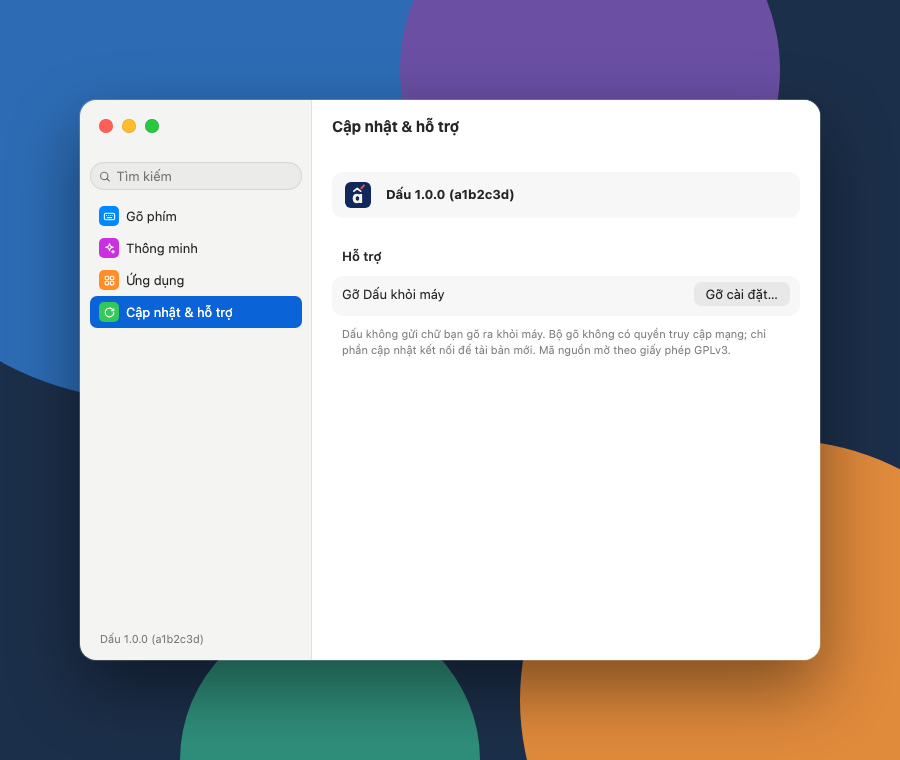
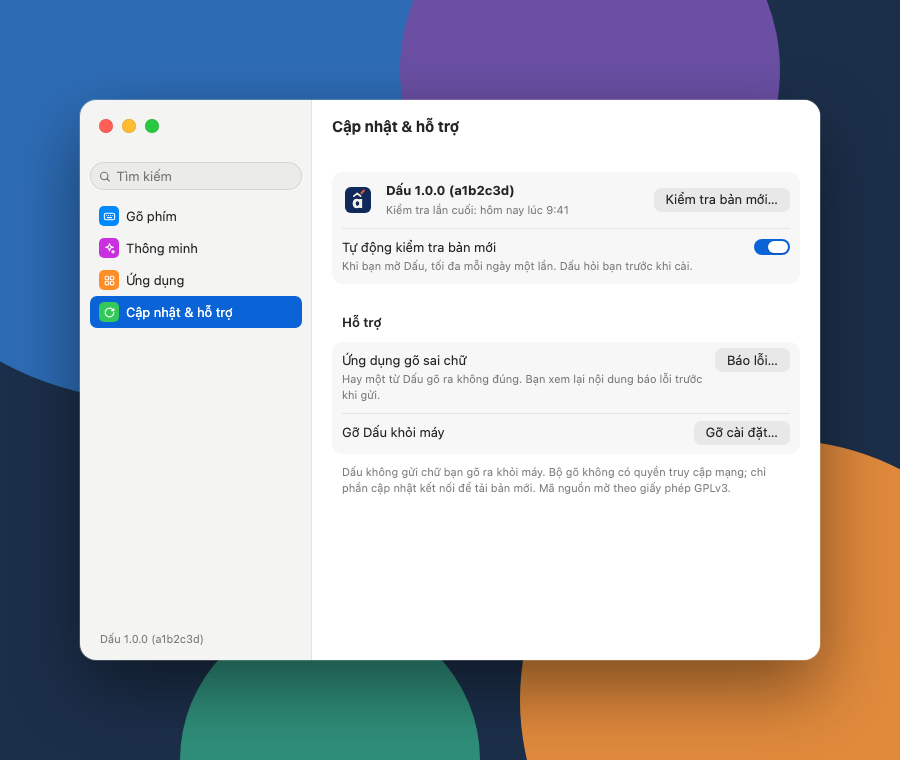
docs(decisions): use Sparkle's own update windows; GitHub-only bug reports
Approved M7 artboards: a new DMG window, the update part and a bug-report
row on the Updates & Support page, and the report sheet without the email
path. D7: Sparkle draws the update windows, checks only while Dấu is open,
never installs silently. D8: bug reports go through GitHub only. The two
custom update artboards are removed.

diff --git a/docs/canvas/src/DmgWindow.dc.html b/docs/canvas/src/DmgWindow.dc.html
@@ -1,0 +1,49 @@
+<!doctype html>
+<html lang="vi">
+<head>
+<meta charset="utf-8">
+<title>Cửa sổ DMG</title>
+<script src="./support.js"></script>
+</head>
+<body>
+<x-dc>
+<helmet>
+<style>
+@import url('https://fonts.googleapis.com/css2?family=Be+Vietnam+Pro:wght@400;500;600;700;800&display=swap');
+body{margin:0}
+.tl{position:absolute;top:9px;width:12px;height:12px;border-radius:6px;box-shadow:inset 0 0 0 .5px rgba(0,0,0,.15)}
+.item{position:absolute;top:116px;width:160px;display:flex;flex-direction:column;align-items:center;gap:6px}
+.lbl{font-size:13px;line-height:16px;color:#000;padding:1px 4px;border-radius:4px}
+</style>
+</helmet>
+<div style="width: 900px; height: 620px; position: relative; overflow: hidden; font-family: -apple-system, BlinkMacSystemFont, 'SF Pro Text', 'Helvetica Neue', sans-serif">
+<div aria-hidden="true" style="position: absolute; inset: 0; background: #1c2f4a; overflow: hidden">
+<div style="position: absolute; width: 620px; height: 620px; border-radius: 50%; background: #2d6cb5; left: -160px; top: -220px"></div>
+<div style="position: absolute; width: 520px; height: 520px; border-radius: 50%; background: #e08a3c; right: -140px; bottom: -200px"></div>
+<div style="position: absolute; width: 380px; height: 380px; border-radius: 50%; background: #6a4fa3; right: 120px; top: -120px"></div>
+<div style="position: absolute; width: 300px; height: 300px; border-radius: 50%; background: #2f8f7a; left: 180px; bottom: -150px"></div>
+</div>
+<div role="img" aria-label="Cửa sổ Finder của ảnh đĩa Dấu: biểu tượng Dấu bên trái, mũi tên, thư mục Applications bên phải" style="position: absolute; left: 130px; top: 96px; width: 640px; height: 428px; border-radius: 12px; overflow: hidden; background: #F6F1E7; box-shadow: 0 0 0 1px rgba(0,0,0,.18), 0 28px 70px rgba(0,0,0,.45)">
+<div style="position: relative; height: 28px; background: #ececec; box-shadow: inset 0 -1px 0 rgba(0,0,0,.1); display: flex; align-items: center; justify-content: center; font-size: 13px; font-weight: 600; color: rgba(0,0,0,.85)">
+<span class="tl" style="left: 10px; background: #ff5f57"></span><span class="tl" style="left: 30px; background: #febc2e"></span><span class="tl" style="left: 50px; background: #28c840"></span>Dấu</div>
+<div style="position: relative; height: 400px">
+<div class="item" style="left: 80px">
+<svg width="128" height="128" viewBox="0 0 100 100" aria-hidden="true"><rect x="0" y="0" width="100" height="100" rx="22.4" fill="#10285A"></rect><text x="48" y="80" text-anchor="middle" font-family="'Be Vietnam Pro', -apple-system, 'Helvetica Neue', sans-serif" font-weight="700" font-size="64" fill="#F6F1E7">a</text><path d="M34 35 L47 25 L60 35" fill="none" stroke="#F6F1E7" stroke-width="7" stroke-linecap="round" stroke-linejoin="round"></path><path d="M63 24 L73 13" fill="none" stroke="#E0533D" stroke-width="7.5" stroke-linecap="round"></path></svg>
+<span class="lbl">Dấu</span></div>
+<svg width="120" height="40" viewBox="0 0 120 40" aria-hidden="true" style="position: absolute; left: 260px; top: 160px"><path d="M6 20 H108" fill="none" stroke="#10285A" stroke-opacity="0.45" stroke-width="4" stroke-linecap="round"></path><path d="M94 8 L110 20 L94 32" fill="none" stroke="#10285A" stroke-opacity="0.45" stroke-width="4" stroke-linecap="round" stroke-linejoin="round"></path></svg>
+<div class="item" style="left: 400px">
+<svg width="128" height="128" viewBox="0 0 128 128" aria-hidden="true"><path d="M10 30 Q10 22 18 22 H50 Q55 22 58 27 L62 33 H110 Q118 33 118 41 V100 Q118 108 110 108 H18 Q10 108 10 100 Z" fill="#5CB3F7"></path><path d="M10 44 Q10 38 16 38 H112 Q118 38 118 44 V100 Q118 108 110 108 H18 Q10 108 10 100 Z" fill="#7CC4FA"></path><g fill="none" stroke="#3B8FD6" stroke-width="5" stroke-linecap="round"><path d="M54 92 L64 56 L74 92"></path><path d="M50 80 H78"></path></g></svg>
+<span class="lbl">Applications</span></div>
+</div>
+</div>
+</div>
+</x-dc>
+<script type="text/x-dc" data-dc-script data-props='{"$preview":{"width":900,"height":620}}'>
+class Component extends DCLogic {
+renderVals() {
+return {};
+}
+}
+</script>
+</body>
+</html>

diff --git a/docs/canvas/src/Report.dc.html b/docs/canvas/src/Report.dc.html
@@ -48,7 +48,7 @@ body{margin:0}
 <div aria-hidden="true" style="position: absolute; inset: 0; background: rgba(0,0,0,0.25)"></div>
 <div role="dialog" aria-labelledby="rt" style="position: absolute; left: 50%; top: 50%; transform: translate(-50%, -50%); width: 520px; box-sizing: border-box; padding: 24px; border-radius: 22px; background: #f5f5f7; box-shadow: 0 28px 70px rgba(0,0,0,0.45); display: flex; flex-direction: column; gap: 16px">
 <div style="display: flex; flex-direction: column; gap: 4px"><h1 id="rt" style="margin: 0; font-size: 17px; font-weight: 700; color: #1d1d1f">Báo ứng dụng gõ lỗi</h1>
-<p style="margin: 0; font-size: 12px; line-height: 1.5; color: #5e5e63">Bạn xem lại trước khi gửi. Báo lỗi trên GitHub được đăng công khai; không có tài khoản GitHub thì sao chép nội dung và gửi qua email.</p></div>
+<p style="margin: 0; font-size: 12px; line-height: 1.5; color: #5e5e63">Bạn xem lại trước khi gửi. Báo lỗi trên GitHub được đăng công khai.</p></div>
 <div role="note" style="display: flex; gap: 10px; align-items: flex-start; padding: 12px 14px; border-radius: 12px; background: rgba(10,100,216,0.07)"><svg width="16" height="16" viewBox="0 0 24 24" fill="none" stroke="#0A64D8" stroke-width="2" stroke-linecap="round" stroke-linejoin="round" aria-hidden="true" style="flex: none; margin-top: 1px"><circle cx="12" cy="12" r="9"></circle><path d="M12 11v5M12 7.5h.01"></path></svg><span style="display: flex; flex-direction: column; gap: 2px; font-size: 12px; line-height: 1.45; color: #1d1d1f"><span style="font-weight: 600">Ứng dụng không chọn được Dấu?</span><span>Ứng dụng đó có thể còn giữ danh sách nguồn đầu vào cũ. Đăng xuất ( › Log Out) rồi đăng nhập lại một lần, sau đó thử lại; thoát rồi mở lại ứng dụng thì chưa đủ. Vẫn lỗi thì gửi báo lỗi bên dưới.</span></span></div>
 <div class="card" style="padding: 6px 0">
 <div class="row"><label for="ap" style="width: 110px; font-weight: 500">Ứng dụng</label><select id="ap" style="height: 30px; box-sizing: border-box; border-radius: 8px; border: 1px solid rgba(0,0,0,0.14); background: #fff; padding: 0 10px; font-size: 13px; font-family: inherit; color: #1d1d1f; flex: 1"><option>Google Chrome</option></select></div>
@@ -59,8 +59,8 @@ body{margin:0}
 <div class="sep"></div>
 <div class="row"><label for="ex" style="width: 110px; font-weight: 500">Ví dụ đã gõ</label><input id="ex" value="tieengs Vieetj" style="height: 30px; box-sizing: border-box; border-radius: 8px; border: 1px solid rgba(0,0,0,0.14); background: #fff; padding: 0 10px; font-size: 13px; font-family: inherit; color: #1d1d1f; flex: 1"></div>
 </div>
-<div style="display: flex; flex-direction: column; gap: 4px; padding: 0 4px"><span style="font-size: 12px; font-weight: 600; color: #1d1d1f">Gửi kèm</span><span class="hint">macOS 27 · Dấu 1.0.0 (a1b2c3d) · Telex · Không gạch chân · Chrome [phiên bản]. Không gửi nội dung bạn đã gõ.</span></div>
-<div style="display: flex; gap: 8px"><button class="btn">Huỷ</button><span style="flex: 1"></span><button class="btn">Sao chép nội dung</button><button class="btn pri">Mở trên GitHub</button></div>
+<div style="display: flex; flex-direction: column; gap: 4px; padding: 0 4px"><span style="font-size: 12px; font-weight: 600; color: #1d1d1f">Gửi kèm</span><span class="hint">macOS 27 · Dấu 1.0.0 (a1b2c3d) · Telex · Không gạch chân · Chrome [phiên bản]. Chỉ gửi những gì có trong bảng này.</span></div>
+<div style="display: flex; gap: 8px"><button class="btn">Huỷ</button><span style="flex: 1"></span><button class="btn pri">Mở trên GitHub</button></div>
 </div>
 </div>
 </x-dc>

diff --git a/docs/canvas/src/SettingsAbout.dc.html b/docs/canvas/src/SettingsAbout.dc.html
@@ -103,8 +103,10 @@ details[open] .disc svg{transform:rotate(90deg)}
 <main class="pane">
 <header class="tb" style="gap: 12px"><h1>Cập nhật & hỗ trợ</h1></header>
 <div class="scroll"><div>
-<section class="card"><div class="row mid" style="padding: 10px"><svg width="26" height="26" viewBox="0 0 100 100" aria-hidden="true" style="flex: none; margin: 0 3px"><rect x="0" y="0" width="100" height="100" rx="22.4" fill="#10285A"></rect><text x="48" y="80" text-anchor="middle" font-family="'Be Vietnam Pro', -apple-system, 'Helvetica Neue', sans-serif" font-weight="700" font-size="64" fill="#F6F1E7">a</text><path d="M34 35 L47 25 L60 35" fill="none" stroke="#F6F1E7" stroke-width="7" stroke-linecap="round" stroke-linejoin="round"></path><path d="M63 24 L73 13" fill="none" stroke="#E0533D" stroke-width="7.5" stroke-linecap="round"></path></svg><div style="flex: 1; min-width: 0; display: flex; flex-direction: column; gap: 2px"><span style="font-weight: 700">Dấu 1.0.0 (a1b2c3d)</span></div></div></section>
-<section class="g30"><div class="hd"><h2 class="sec">Hỗ trợ</h2></div><div class="card"><div class="row r40"><div class="lbl"><span>Gỡ Dấu khỏi máy</span></div><button class="btn c24">Gỡ cài đặt…</button></div></div><p class="foot">Dấu không gửi chữ bạn gõ ra khỏi máy. Bộ gõ không có quyền truy cập mạng; chỉ phần cập nhật kết nối để tải bản mới. Mã nguồn mở theo giấy phép GPLv3.</p></section>
+<section class="card"><div class="row mid" style="padding: 10px"><svg width="26" height="26" viewBox="0 0 100 100" aria-hidden="true" style="flex: none; margin: 0 3px"><rect x="0" y="0" width="100" height="100" rx="22.4" fill="#10285A"></rect><text x="48" y="80" text-anchor="middle" font-family="'Be Vietnam Pro', -apple-system, 'Helvetica Neue', sans-serif" font-weight="700" font-size="64" fill="#F6F1E7">a</text><path d="M34 35 L47 25 L60 35" fill="none" stroke="#F6F1E7" stroke-width="7" stroke-linecap="round" stroke-linejoin="round"></path><path d="M63 24 L73 13" fill="none" stroke="#E0533D" stroke-width="7.5" stroke-linecap="round"></path></svg><div style="flex: 1; min-width: 0; display: flex; flex-direction: column; gap: 2px"><span style="font-weight: 700">Dấu 1.0.0 (a1b2c3d)</span><span class="sub">Kiểm tra lần cuối: hôm nay lúc 9:41</span></div><button class="btn">Kiểm tra bản mới…</button></div>
+<div class="sep"></div>
+<div class="row"><div class="lbl"><span>Tự động kiểm tra bản mới</span><span class="sub">Khi bạn mở Dấu, tối đa mỗi ngày một lần. Dấu hỏi bạn trước khi cài.</span></div><input type="checkbox" class="sw c16" checked aria-label="Tự động kiểm tra bản mới"></div></section>
+<section class="g30"><div class="hd"><h2 class="sec">Hỗ trợ</h2></div><div class="card"><div class="row"><div class="lbl"><span>Ứng dụng gõ sai chữ</span><span class="sub">Hay một từ Dấu gõ ra không đúng. Bạn xem lại nội dung báo lỗi trước khi gửi.</span></div><a class="btn c24" href="Report.dc.html">Báo lỗi…</a></div><div class="sep"></div><div class="row r40"><div class="lbl"><span>Gỡ Dấu khỏi máy</span></div><button class="btn c24">Gỡ cài đặt…</button></div></div><p class="foot">Dấu không gửi chữ bạn gõ ra khỏi máy. Bộ gõ không có quyền truy cập mạng; chỉ phần cập nhật kết nối để tải bản mới. Mã nguồn mở theo giấy phép GPLv3.</p></section>
 </div></div>
 </main>
 

diff --git a/docs/canvas/src/SettingsAboutDev.dc.html b/docs/canvas/src/SettingsAboutDev.dc.html
@@ -76,7 +76,7 @@ body{margin:0}
 <header class="tb" style="gap: 12px"><h1>Cập nhật & hỗ trợ</h1></header>
 <div class="scroll"><div>
 <section class="card"><div class="row mid" style="padding: 10px"><svg width="26" height="26" viewBox="0 0 100 100" aria-hidden="true" style="flex: none; margin: 0 3px"><defs><clipPath id="sq"><rect width="100" height="100" rx="22.4"></rect></clipPath></defs><g clip-path="url(#sq)"><rect width="100" height="100" fill="#2C2F35"></rect><polygon points="52,100 100,52 100,74 74,100" fill="#F2B705"></polygon></g><text x="48" y="80" text-anchor="middle" font-family="'Be Vietnam Pro', -apple-system, 'Helvetica Neue', sans-serif" font-weight="700" font-size="64" fill="#F6F1E7">a</text><path d="M34 35 L47 25 L60 35" fill="none" stroke="#F6F1E7" stroke-width="7" stroke-linecap="round" stroke-linejoin="round"></path><path d="M63 24 L73 13" fill="none" stroke="#E0533D" stroke-width="7.5" stroke-linecap="round"></path></svg><div style="flex: 1; min-width: 0; display: flex; flex-direction: column; gap: 2px"><span style="font-weight: 700">Dấu 1.0.0 (a1b2c3d, Debug)</span><span class="sub">Bản phát triển</span><span class="sub">Bộ gõ đã cài: a1b2c3d</span></div></div></section>
-<section class="g30"><div class="hd"><h2 class="sec">Hỗ trợ</h2></div><div class="card"><div class="row r40"><div class="lbl"><span>Gỡ Dấu khỏi máy</span></div><button class="btn c24">Gỡ cài đặt…</button></div></div><p class="foot">Dấu không gửi chữ bạn gõ ra khỏi máy. Bộ gõ không có quyền truy cập mạng; chỉ phần cập nhật kết nối để tải bản mới. Mã nguồn mở theo giấy phép GPLv3.</p></section>
+<section class="g30"><div class="hd"><h2 class="sec">Hỗ trợ</h2></div><div class="card"><div class="row"><div class="lbl"><span>Ứng dụng gõ sai chữ</span><span class="sub">Hay một từ Dấu gõ ra không đúng. Bạn xem lại nội dung báo lỗi trước khi gửi.</span></div><a class="btn c24" href="Report.dc.html">Báo lỗi…</a></div><div class="sep"></div><div class="row r40"><div class="lbl"><span>Gỡ Dấu khỏi máy</span></div><button class="btn c24">Gỡ cài đặt…</button></div></div><p class="foot">Dấu không gửi chữ bạn gõ ra khỏi máy. Bộ gõ không có quyền truy cập mạng; chỉ phần cập nhật kết nối để tải bản mới. Mã nguồn mở theo giấy phép GPLv3.</p></section>
 </div></div>
 </main>
 </div>

diff --git a/docs/Progress.md b/docs/Progress.md
@@ -65,8 +65,8 @@ Việc cần người dùng gom vào bước 0 (tài khoản, khoá, duyệt art
 
 1. D42: `scripts/selftest/load/heavy.sh` với bản Debug; RSS tiến trình bộ gõ bản Release cạnh bản Debug.
 2. Cài bản thử thứ nhất từ DMG (mang quarantine): Gatekeeper, hộp thoại App Group và hộp thoại bật bộ gõ với bản Developer ID (hai câu hỏi mở), onboarding, gõ thử bằng `scripts/selftest/typing/run.sh`; bản bỏ `temporary-exception` gõ được thì giữ, không thì trả entitlement lại.
-3. Sparkle cập nhật lên bản thử thứ hai: bộ gõ đã cài được thay (`scripts/dev/dau-version.sh`).
-4. Kiểm cần người: VoiceOver và Tab qua cửa sổ Cài đặt, VoiceOver đọc tên nguồn, máy để tiếng Anh hẳn (người dùng đổi ngôn ngữ hệ thống). Phiên chính chụp và xem: biểu tượng thanh menu trên nền sáng và tối, các sheet ở chế độ tối, danh sách "+" của System Settings.
+3. Sparkle cập nhật lên bản thử thứ hai: kiểm câu dưới công tắc "Tự động kiểm tra bản mới" (kiểm tra khi mở Dấu, hỏi trước khi cài, D7); cài xong Sparkle mở lại Dấu và bộ gõ đã cài được thay (`scripts/dev/dau-version.sh`).
+4. Kiểm cần người: VoiceOver và Tab qua cửa sổ Cài đặt, VoiceOver đọc tên nguồn, máy để tiếng Anh hẳn (người dùng đổi ngôn ngữ hệ thống). Phiên chính chụp và xem: biểu tượng thanh menu trên nền sáng và tối, các sheet ở chế độ tối, danh sách "+" của System Settings, nhãn biểu tượng trong cửa sổ DMG ở chế độ tối (theo báo cáo trên diễn đàn, Finder vẽ nhãn kiểu sáng khi thư mục có ảnh nền; chưa đo).
 5. Dọn: gỡ bản thử, cài lại `stable`.
 
 ### Bước 4 — Phát hành và đóng mốc
@@ -79,6 +79,8 @@ Việc cần người dùng gom vào bước 0 (tài khoản, khoá, duyệt art
 Nhật ký M0–M4 ở `docs/history/LogM0ToM4.md` (kèm bảng số đo M1–M3), M5 ở `docs/history/LogM5.md`, 05–08/11 (giữa M5 và M6) ở `docs/history/LogBetweenM5AndM6.md`, M6 ở `docs/history/LogM6.md`.
 
 (ngày — việc — agent — kết quả — commit)
+
+- 17/11 — M7 bước 1e: artboard mới "Cửa sổ ảnh đĩa DMG" (nền Giấy, không có chữ trên nền vì ảnh nền không dịch được, D41); "Cập nhật & hỗ trợ" thêm phần cập nhật (bản chính thức) và hàng "Ứng dụng gõ sai chữ" (mọi bản); sheet báo lỗi sửa câu "Không gửi nội dung bạn đã gõ" (sai N5: ô "Ví dụ đã gõ" có gửi) — phiên chính — người dùng duyệt một lần và chọn: cửa sổ chuẩn của Sparkle thay cho thẻ trạng thái và thông báo tự vẽ (bỏ hai artboard đó; bản tự vẽ từng hứa quay về bản trước và chữ ký đã xác minh trước khi tải), chỉ kiểm tra lúc Dấu mở, không cài ngầm (D7); bỏ đường email của báo lỗi (D8). Chụp lại bằng `render-canvas.sh` — commit "docs(decisions): use Sparkle's own update windows; GitHub-only bug reports".
 
 - 17/11 — chẩn đoán lỗi người dùng báo: gõ từ chưa dấu, dấu cách, ⌫, phím dấu, dấu không vào từ mà đứng sau nó ("hocj"), lúc có lúc không — phiên phụ, không agent — client giả dựng lại ba cơ chế cùng ra "hocj"; gõ lại phím dấu chậm ngay sau đó phân biệt được chúng: (1) từ ⌫ tới phím dấu dưới 50 ms (D20, `settleInterval`): gõ lại chậm thì được; (2) một lần đọc trước đó trong cùng lần kích hoạt nhận `NSNotFound` hay `nil`: `readUnavailable` tắt mọi lần đọc D20 tới lần kích hoạt sau (D20, D18), gõ lại vẫn hỏng, đổi app rồi quay lại thì được; (3) app trả chậm hơn `lateLimit` (mô hình bộ đệm Chromium, chậm 3–4 thao tác): chỉ hỏng phím đó. Đọc mã không thấy cơ chế khác (D20 "Từ hệ thống vừa sửa", mô hình Cursor, reset bằng mũi tên đều đúng). Ca người dùng gặp, ở app Claude: "khuyeens" ra "khuyến", "cao␣⌫s" ra "caos", ⌫⌫ ra "ca", "s" ra "cas". Ở 150 ms giữa các phím, chỉ cơ chế 2 ra đủ chuỗi đó: mô hình chậm 3 thao tác ra "caos" rồi "cá", chậm 4 làm hỏng cả "khuyến"; cơ chế 1 phải xảy ra hai lần liền. Chưa rõ lần đọc hỏng trước đó là lần nào (bản Release không ghi log theo phím, D8). Sửa (người dùng duyệt đổi D20): một lần đọc không nhận được gì chỉ mất lần đọc của phím đó; hai lần liền nhau mới thôi đọc tới lần kích hoạt sau, một lần đọc được ở giữa thì đếm lại (`InPlaceComposer.failedReadLimit`). Test: `BackspaceThenMarkTests` (gồm đúng chuỗi phím đã báo), `failedReadsStartOver`; `LateBackspaceMarkTests` giữ known issue (chậm 3–4 thao tác, chưa sửa). Bộ gõ 209 test đạt, 11 known issue. Chưa kiểm trong app Claude thật: lần đọc hỏng chưa tái hiện được ngoài đời, chỉ xác nhận được khi dùng hằng ngày bản mới mà không gặp lại. Đã cài bản Release của commit này bằng `scripts/dev/install-app.sh` (`dau-version.sh`: bộ gõ và Dấu.app đều đúng commit); tag `stable` chưa chuyển, chờ dùng thử — commit "fix(input-method): one failed read no longer stops D20 until activation".
 

diff --git a/docs/Decisions.md b/docs/Decisions.md
@@ -158,7 +158,9 @@ GPLv3. DMG ký Developer ID + notarize trên GitHub Releases. Không có Mac App
 - Appcast ở `https://dau.codefastlabs.com/appcast.xml`. Chỉ bản chính thức có URL appcast và khoá công khai EdDSA, nên chỉ bản chính thức kiểm tra và cài bản mới; bản phát triển không bao giờ bị Sparkle thay bằng bản khác Team ID.
 - Khi có kênh Beta, người dùng bật kênh đó trong app; không có cask Homebrew riêng cho Beta (D6 (Phát hành)).
 - Danh sách ứng dụng tương thích đi kèm app và đổi theo bản cập nhật app; không tải riêng.
-- Cài bản mới lúc người dùng không gõ, sau đó dừng tiến trình bộ gõ cũ để hệ thống nạp bản mới; cách thay bộ gõ đã cài ở D37, ý "Thay bộ gõ đã cài".
+- **Cửa sổ của Sparkle:** thông báo, tải và cài bản mới dùng cửa sổ chuẩn của Sparkle (có tiếng Việt và tiếng Anh, D41 (Ngôn ngữ giao diện)). Trang Cập nhật & hỗ trợ chỉ có nút "Kiểm tra bản mới…", giờ kiểm tra lần cuối và công tắc "Tự động kiểm tra bản mới".
+- **Khi nào kiểm tra:** Dấu.app thoát khi đóng cửa sổ cuối, nên chỉ kiểm tra lúc Dấu đang mở: khi mở Dấu, tối đa mỗi ngày một lần. Kiểm tra cả khi Dấu không mở để sau bản thử đầu.
+- **Không cài ngầm:** luôn hỏi người dùng trước khi cài. Cài xong Sparkle mở lại Dấu, và bản chủ vừa mở thay bộ gõ đã cài, lúc người dùng đang ở Dấu chứ không gõ ở app khác (D37, ý "Thay bộ gõ đã cài").
 - **Loại bản dựng:** ba trục độc lập, không có loại thứ tư.
   - Cấu hình build: Debug hoặc Release (D8 (Không telemetry) nói khác nhau ở đâu).
   - Người ký: **bản chính thức** là bản ký Developer ID của codefastlabs, đã notarize, và chỉ dựng bằng quy trình phát hành trên CI; mọi bản khác (ký Personal Team, bản người khác tự build hay bản fork) là **bản phát triển**.
@@ -170,11 +172,11 @@ GPLv3. DMG ký Developer ID + notarize trên GitHub Releases. Không có Mac App
 - Không phát hành dần theo số liệu và không có cờ tính năng điều khiển từ xa. Không dùng TestFlight.
 - Nhận diện từng loại bản: D25 (Nhận diện).
 
-**Vì sao:** phát hành dần theo số liệu và cờ tính năng điều khiển từ xa đều cần số liệu từ máy người dùng (D8), nên Dấu dựa vào người dùng Beta và báo lỗi. Một kênh và danh sách đi kèm app: bản thử đầu cần tới tay người dùng sớm; hai kênh, phát theo đợt và file danh sách ký riêng là hạ tầng cho lúc đã có nhiều người dùng. TestFlight chỉ dành cho app phân phối qua App Store (D6 (Phát hành)).
+**Vì sao:** phát hành dần theo số liệu và cờ tính năng điều khiển từ xa đều cần số liệu từ máy người dùng (D8), nên Dấu dựa vào người dùng Beta và báo lỗi. Một kênh và danh sách đi kèm app: bản thử đầu cần tới tay người dùng sớm; hai kênh, phát theo đợt và file danh sách ký riêng là hạ tầng cho lúc đã có nhiều người dùng. Cửa sổ của Sparkle thay cho thẻ trạng thái và thông báo tự vẽ: Sparkle đã có bản tiếng Việt và tự kiểm chữ ký trước khi cài, còn bản tự vẽ cần một user driver riêng và từng hứa điều chưa có (quay về bản trước, chữ ký "đã xác minh" trước khi tải, N5). Không cài ngầm: Sparkle cài ngầm lúc app thoát mà không mở lại app, nên bộ gõ cũ chạy tiếp tới lần mở Dấu sau. TestFlight chỉ dành cho app phân phối qua App Store (D6 (Phát hành)).
 
 ### D8. Không telemetry
 
-- Không telemetry. Báo lỗi qua GitHub issue điền sẵn hoặc "Sao chép nội dung" để gửi email.
+- Không telemetry. Báo lỗi chỉ qua GitHub issue điền sẵn; người dùng xem lại trước khi gửi. Không có đường email: Dấu chưa có địa chỉ nhận báo lỗi.
 - Không bao giờ gửi nội dung người dùng đã gõ.
 - Log chẩn đoán dùng `os.Logger`, nằm trên máy.
 - Bản phát hành không ghi gì theo từng phím, kể cả không có chữ.

diff --git a/docs/UI.md b/docs/UI.md
@@ -164,7 +164,7 @@ Artboard: [thêm quy tắc](canvas/SettingsAppsAdd.png), [chưa chọn](canvas/S
 
 Artboard: [Cập nhật & hỗ trợ](canvas/SettingsAbout.png).
 
-- Tới khi có Sparkle (M7), trang chỉ có thẻ phiên bản, mục "Hỗ trợ" với nút gỡ cài đặt và chú thích quyền riêng tư; không vẽ nút chưa chạy. Phần cập nhật (mục "Chưa có mã") và báo lỗi thêm lại khi chúng chạy được.
+- Tới khi có Sparkle (M7), trang chỉ có thẻ phiên bản, mục "Hỗ trợ" với nút gỡ cài đặt và chú thích quyền riêng tư; không vẽ nút chưa chạy. Phần cập nhật và hàng báo lỗi (mục "Chưa có mã") thêm khi chúng chạy được.
 - Nút gỡ cài đặt dùng dạng `role: .destructive` của hệ thống (D9); luồng gỡ ở mục "Gỡ cài đặt".
 - Chú thích quyền riêng tư giữ đúng nội dung D8 (Không telemetry) và N2 (Bộ gõ không có quyền mạng).
 
@@ -241,27 +241,17 @@ Cài đặt và onboarding đều có, bằng màu hệ thống (D9).
 
 Mô tả nội dung tới khi dựng. Mọi câu hứa ở đây phải kiểm chứng ở M7 (N5).
 
-### Thẻ cập nhật
+### Cập nhật trên trang Cập nhật & hỗ trợ
 
-Artboard: [Trạng thái thẻ cập nhật](canvas/UpdateStates.png).
+Artboard: [Cập nhật & hỗ trợ](canvas/SettingsAbout.png), [bản phát triển](canvas/SettingsAboutDev.png).
 
-Sáu trạng thái:
+- Chỉ bản chính thức có phần cập nhật (D7 (Cập nhật và loại bản dựng)): thẻ phiên bản có dòng "Kiểm tra lần cuối" và nút "Kiểm tra bản mới…"; hàng "Tự động kiểm tra bản mới" có công tắc. Bản phát triển không có cả ba.
+- Thông báo, tải và cài bản mới là cửa sổ của Sparkle (D7); trang không vẽ trạng thái tải hay cài.
+- Câu dưới công tắc ("khi bạn mở Dấu, tối đa mỗi ngày một lần", "hỏi bạn trước khi cài") kiểm ở lượt chạy Sparkle cập nhật của M7.
 
-- đã mới nhất;
-- đang kiểm tra;
-- đang tải (thanh tiến trình, "Bạn vẫn gõ bình thường", nút Huỷ);
-- chờ cài ("Sẽ cài khi bạn ngừng gõ", nút Cài ngay);
-- không có mạng (nút Thử lại, "Dấu vẫn gõ bình thường");
-- chữ ký không hợp lệ ("Đã huỷ bản cập nhật", nút Báo lỗi…).
+### Hàng báo lỗi
 
-### Thông báo cập nhật
-
-Artboard: [Thông báo cập nhật](canvas/Update.png).
-
-- Icon app, "Đã có Dấu x.y.z", mô tả, "Có gì mới".
-- Dòng "Đã xác minh chữ ký số của bản cập nhật".
-- Checkbox "Tự động cài các bản sau".
-- Nút: Cài đặt / Nhắc sau / Bỏ qua bản này.
+- Mục "Hỗ trợ" có hàng "Ứng dụng gõ sai chữ" với nút "Báo lỗi…" mở sheet "Báo ứng dụng gõ lỗi", ở mọi loại bản.
 
 ### Báo ứng dụng gõ lỗi
 
@@ -269,6 +259,6 @@ Artboard: [Báo ứng dụng gõ lỗi](canvas/Report.png).
 
 - Đầu sheet có ô gợi ý "Ứng dụng không chọn được Dấu?": đăng xuất rồi đăng nhập lại một lần; thoát rồi mở lại ứng dụng thì chưa đủ; vẫn lỗi thì gửi báo lỗi (D37).
 - Các trường: Ứng dụng (tự điền), Trang web (không bắt buộc), Loại lỗi (Mất chữ, Lặp chữ, Sai dấu, Khác), Ví dụ đã gõ.
-- Mục "Gửi kèm" liệt kê phiên bản macOS, phiên bản Dấu, kiểu gõ, phiên bản của ứng dụng gõ lỗi, và câu "Không gửi nội dung bạn đã gõ."
+- Mục "Gửi kèm" liệt kê phiên bản macOS, phiên bản Dấu, kiểu gõ, phiên bản của ứng dụng gõ lỗi, và câu "Chỉ gửi những gì có trong bảng này." (ô "Ví dụ đã gõ" có gửi, nên không hứa "không gửi chữ đã gõ").
 - Ghi rõ issue GitHub là công khai.
-- Nút: Huỷ / Sao chép nội dung / Mở trên GitHub (issue điền sẵn, D8).
+- Nút: Huỷ / Mở trên GitHub (issue điền sẵn, D8 (Không telemetry); không có đường email).

diff --git a/docs/history/DecisionsLog.md b/docs/history/DecisionsLog.md
@@ -89,12 +89,15 @@ Lưu trữ cách từng nguyên tắc và quyết định trong `docs/Decisions.
 - 11/11/2026: thêm ý "Thay bộ gõ đã cài" ở D37 và dẫn sang từ ý "Cài bản mới lúc người dùng không gõ"; ghi điều mã đã làm mà sổ chưa nói (`docs/research/InputMethodInstall.md` mục 6.2), phiên chính chốt. Số hiển thị ví dụ đổi từ "1.3 beta 2" thành "1.3.0 beta 2" (tag `v1.3.0-beta.2`) cho khớp dạng ba số của D25 và mã; luật không đổi.
 
 - 17/11/2026 (người dùng chốt khi lập kế hoạch M7): thêm URL appcast `https://dau.codefastlabs.com/appcast.xml` (chọn thay cho GitHub Pages, buộc URL vào GitHub, và `releases/latest/download`, không tính bản prerelease); chỉ bản chính thức có URL appcast; kênh Beta bật trong app, không có cask riêng; bản thử đầu "0.1.0 beta 1". Ba ý về loại bản đến từ câu hỏi mở "Loại bản dựng".
+- 17/11/2026 (người dùng chọn khi duyệt artboard M7): cửa sổ chuẩn của Sparkle thay cho thẻ cập nhật sáu trạng thái và thông báo tự vẽ (artboard "Trạng thái thẻ cập nhật", "Thông báo cập nhật" bỏ khỏi canvas); chỉ kiểm tra lúc Dấu mở; không cài ngầm. Bản trước, nguyên văn: "Cài bản mới lúc người dùng không gõ, sau đó dừng tiến trình bộ gõ cũ để hệ thống nạp bản mới; cách thay bộ gõ đã cài ở D37, ý "Thay bộ gõ đã cài"." Phương án đã loại: giữ bản tự vẽ (cần user driver riêng); thêm kiểm tra khi Dấu không mở (tiến trình nền, để sau bản thử đầu).
 
 ### D8. Không telemetry
 
 - 02/11/2026: nhật ký từng phím chỉ ở bản Debug, bật bằng `DauPerfLog` ("người dùng chốt 02/11/2026").
 
 - 11/11/2026: thêm ý log bộ gõ ở bản phát hành không ghi app đích hay thời điểm theo từng lần kích hoạt (hai dòng log Release từng ghi bundle ID ở mức công khai; rà soát bảo mật, người dùng duyệt).
+
+- 17/11/2026 (người dùng chọn khi duyệt artboard M7): bỏ đường email, chỉ còn GitHub issue điền sẵn; nút "Sao chép nội dung" bỏ khỏi sheet báo lỗi. Bản trước, nguyên văn: "Không telemetry. Báo lỗi qua GitHub issue điền sẵn hoặc "Sao chép nội dung" để gửi email." Lý do: repo chưa có địa chỉ email nhận báo lỗi.
 
 ### D9. Giao diện
 

diff --git a/docs/Roadmap.md b/docs/Roadmap.md
@@ -35,7 +35,7 @@ Mục tiêu: bản thử đầu "0.1.0 beta 1" (D7 (Cập nhật và loại bả
 - Rà entitlement của bộ gõ trước khi notarize: thử bỏ `temporary-exception.mach-register.global-name` (xem [`docs/Architecture.md`](Architecture.md)).
 - GitHub Actions: test ở mỗi lần đẩy mã, build phát hành từ tag, chạy cả test hiệu năng của engine (`PerformanceTests`).
 - Homebrew cask `dau` với `auto_updates true` trong tap riêng `codefastlabs/homebrew-tap` (D6 (Phát hành)).
-- Báo lỗi (URL issue điền sẵn, D8 (Không telemetry)); câu gợi ý của hàng báo lỗi trong `UpdatesSupportView` theo N5 (hàng cũ "Gặp ứng dụng gõ bị lỗi?" đã bỏ 13/11/2026).
+- Báo lỗi (URL issue điền sẵn, D8 (Không telemetry)); hàng "Ứng dụng gõ sai chữ" trong `UpdatesSupportView` theo artboard "Cập nhật & hỗ trợ".
 - Loại bản dựng (D7, D25 (Nhận diện)):
   - cờ build chọn biểu tượng chuẩn, chỉ quy trình phát hành trên CI đặt: bản build phát hành truyền `DAU_OFFICIAL=YES` cho `xcodebuild` (`project.yml`), rồi kiểm bản build: `CFBundleIconName` của Dấu.app và bộ gõ là `AppIcon`, không phải `AppIconDev`;
   - cũng bước kiểm đó: binary của Dấu.app và bộ gõ đã lược ký hiệu cục bộ (`nm`; archive lược, `xcodebuild build` thì không), và dSYM của mỗi bản phát hành được lưu lại để đọc được báo lỗi crash;

diff --git a/docs/canvas/README.md b/docs/canvas/README.md
@@ -51,14 +51,13 @@
 
 ## Khác
 
-- [Trạng thái thẻ cập nhật](UpdateStates.png) · [nguồn](src/UpdateStates.dc.html)
-- [Thông báo cập nhật](Update.png) · [nguồn](src/Update.dc.html)
 - [Xác nhận quay về / gỡ cài đặt](ConfirmDialogs.png) · [nguồn](src/ConfirmDialogs.dc.html)
 - [Báo ứng dụng gõ lỗi](Report.png) · [nguồn](src/Report.dc.html)
 - [Menu nguồn đầu vào (hệ thống vẽ)](Main.png) · [nguồn](src/Main.dc.html)
 - [Khi gõ trong ứng dụng](TypingStates.png) · [nguồn](src/TypingStates.dc.html)
 - [Ảnh chia sẻ Open Graph 1200×630](OgImage.png) · [nguồn](src/OgImage.dc.html)
 - [Ảnh xem trước GitHub 1280×640](GithubPreview.png) · [nguồn](src/GithubPreview.dc.html)
+- [Cửa sổ ảnh đĩa DMG (bản chính thức)](DmgWindow.png) · [nguồn](src/DmgWindow.dc.html)
 
 ## Gỡ cài đặt
 
